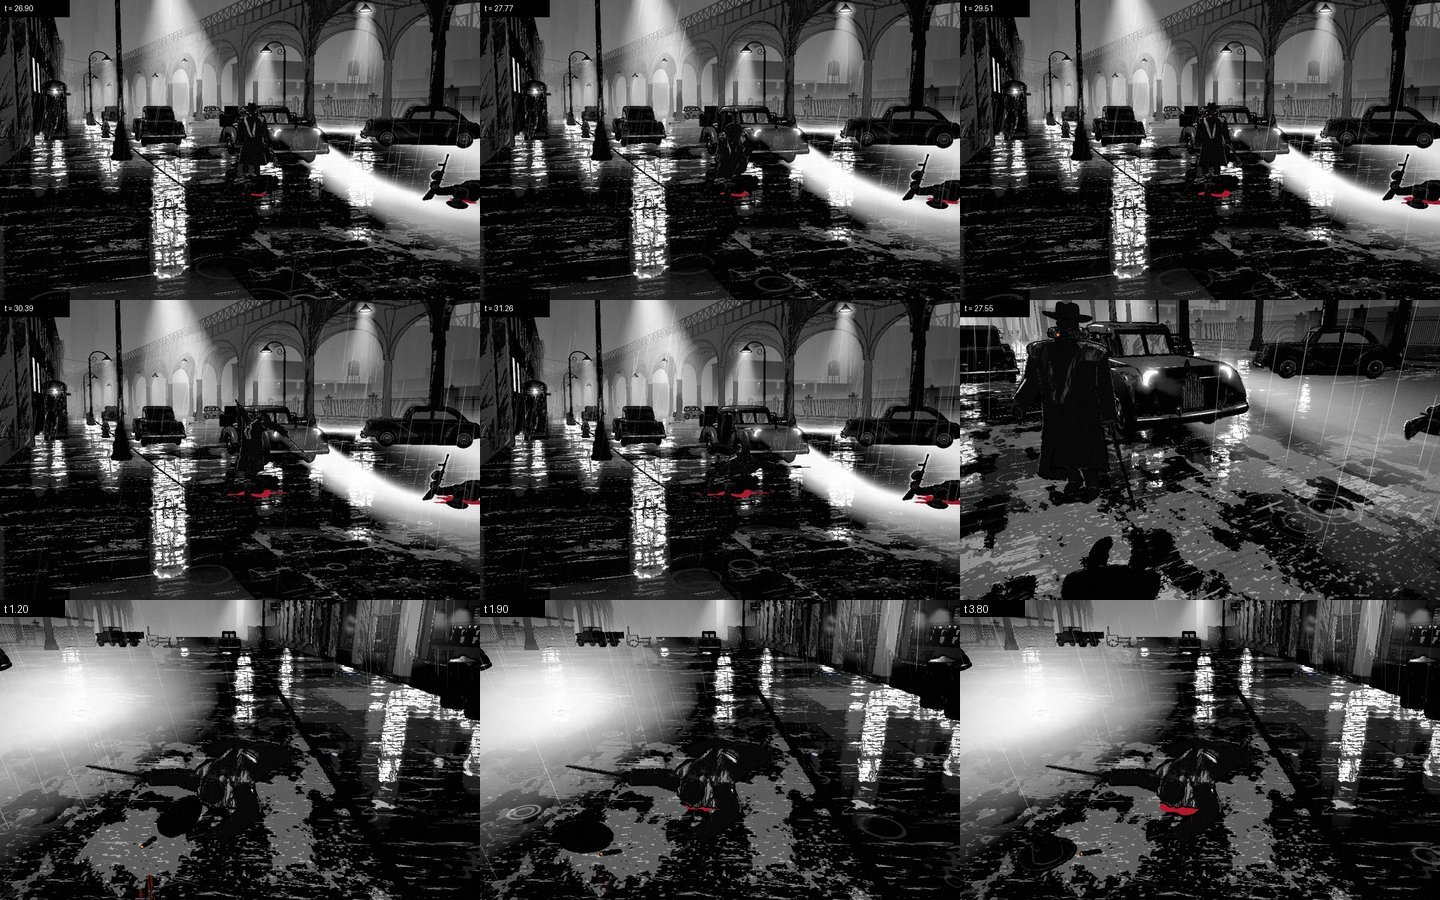
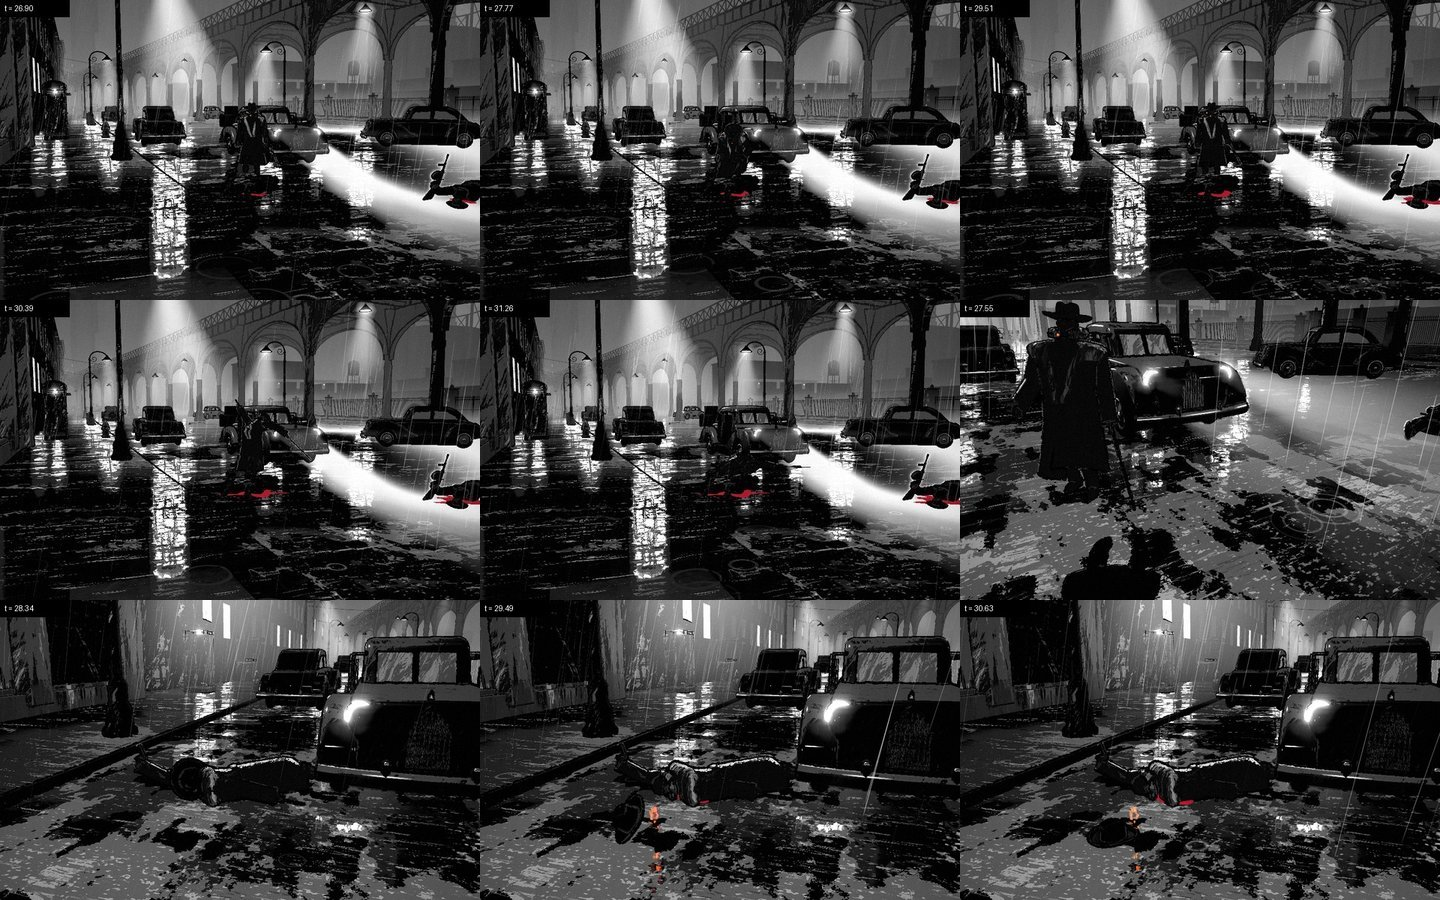
B7 second pass report: the gate on a45aa4d (build, golden 32/32, errors clean, the play twice, the slice's by-design last check, fps ratio), what changed, the fall strip's last row

Changed region(s): [[0.0, 0.6533, 1.0, 1.0]]

diff --git a/docs/story/reports/wave-b/B7.md b/docs/story/reports/wave-b/B7.md
@@ -51,7 +51,32 @@ Game seconds per beat, the runs since the doorways men were moved into the road 
 - `tools/play.mjs` (`// [B7]`): a `{ "drive": "tools/lib/<x>.mjs", "check": "expr over D" }` step: a module's default export plays with the tool's own primitives (trusted keys and mouse, js, shots) and returns a record the check reads. Twelve added lines, nothing else touched.
 - `src/destruct/Breakables.js` (`// [B7]`): a DINER neon letter's tube is a shader material (`render/accents.js`) with no `.color`: shooting it threw a TypeError. Its break now sets the shader's `uLevel` down; its neighbours' flicker scales `uLevel`; a material swapped since is left alone.
 
+## Second pass (5684ae1..a45aa4d)
+
+What changed, most felt first (all in scene 9's own files: `09_shootout.js`, `shootout/rig.js`, `rails.js`, `ending.js`, `cast/kinds/cardinal.js`, `audio/sounds/b7_shootout.js`; no new shared-file change):
+
+- Harder: the men shoot a tenth to a sixth better, and the cars beat lasts at least 15 s (open item 1, in part).
+- The take: a step in to the counter before it (no arm reaching across the room); the drums are taken by my left hand and brought up by Dot's, and her hand comes off them behind the counter (item 5). The eye is held while the hand takes the drums; the drums I carry show again after a death.
+- The cars: an open door shows its cab lit, so the men read coming out of the cars (item 4); a burnt cab has no light. A signal lamp on the el over its gunman (item 2).
+- The men: those who run go by the Hoods' grid and only when unseen, and one who has run as far as he can stands in the dark (item 6); the intruder's shoes are heard on the stoop before the bell (item 8, in part).
+- Dot ducks at a round in the room; at the end she walks out from behind the counter to the broken window as I go out to him (item 7; strip checked: she is at the window 7-9 s into the end beat).
+- The Cardinal goes down on his knees instead of back into his car when it is at his back; he falls forward, and his hat rolls on away from him (strip checked).
+- A retry never puts me back out in the road; the director runs through the fight, so the health bar shows while I am shot at.
+
+Gate plays on the final code (a45aa4d), game seconds per beat:
+
+| run | arrive | cars | doorways | el | driveby | cardinal | end | total | deaths | damage taken | their rounds / hits | kills | my rounds |
+|---|---|---|---|---|---|---|---|---|---|---|---|---|---|
+| play5 (second-pass gate 1) | 7 | 25 | 29 | 21 | 19 | 56 | 22 | 179 | 0 | 104 | 178 / 10 | 13 | 319 |
+| play6 (second-pass gate 2) | 7 | 25 | 22 | 30 | 19 | 50 | 19 | 172 | 0 | 58 | 192 / 5 | 12 | 292 |
+
+The driver takes about 25-30 s longer than on the first pass (172-179 against 136-145) and still never dies.
+
+Frames per second, re-measured on the final code (`UNCAPPED=1 node tools/fps.mjs`, 1440 x 900, alternated perf / cars / perf / cars): perf 15.3, 12.6; cars 13.2, 9.7 fps, with the GPU at 100 % before every run (eight builders), so only the ratio means anything: 0.86 and 0.77, about as before. Draw calls 833-837 in the cars beat against 770-785 for perf (823 on the first pass: the signal lamp and the lit cabs).
+
 ## Gate
+
+Second pass, on a45aa4d (the tools' commit 8425b32 after it touches only the capture scripts): `npm run build` builds; `python3 tools/golden.py check` passed, 32 of 32 frames identical; `tools/errors.sh` clean on every beat (arrive, cars, doorways, el, driveby crippled, cardinal wounded to the fall, end, the last frame); my play passed twice in a row (play5, play6, 5 of 5 each); the slice play 23 passed, 1 failed, the same by-design last check as below (open item 10); frames per second above. The first pass's gate follows.
 
 - `npm run build`: builds (the usual chunk-size warning only).
 - `python3 tools/golden.py check`: passed, 32 of 32 frames identical (run at d308768; what came after it touches only scene 9's own files and the play's json, which no golden preset loads).
@@ -61,6 +86,8 @@ Game seconds per beat, the runs since the doorways men were moved into the road 
 - Frames per second at the heaviest moment (the cars beat, t 10) against `shot=perf`: about 0.75 of it (four alternated runs, 0.60-1.10, a busy GPU); see Measured.
 
 ## Open (most felt first)
+
+As written after the first pass. The second pass (above) worked items 1 (in part), 2, 4, 5, 6, 7 and 8 (the intruder's step); 3, 9 (the fall is now forward), 10, 11 and 12 stand.
 
 1. **Too easy and short for the driver, first-timer length unmeasured.** The driver never dies more than once and takes 24-131 damage; the scene runs 115-148 game seconds for it. The cars beat can be over in 11 s when the men are shot as they step out (their first rounds go into the glass, not at me). Levers, all in `src/scenes/09_shootout.js` / `site.js`: the men's `aim` (cars 1.25, doorways 1.15, intruder 1.35, heavies 1.0, x 0.7 in the dark), the beat ends (`alive('cars') <= 2`, `alive('doorways') <= 1`, time-outs 50 / 45 / 35 s), a floor on the cars beat's length, men who stay behind their doors longer.
 2. **The el gunman is hard to see.** He stands behind the rail's lattice 10.7 m up; from the diner he is a small shape 20 m off, from under the el the deck's edge hides all but his head. His muzzle flash reads (the tell); his fall onto the car's roof reads only from the street.
@@ -93,4 +120,4 @@ Strips (3 x 3 cells of 480 x 300 from 960 x 600 captures):
 - `strip1_dot_and_the_take.jpg`: arrive, t 2.3-5.9, E at 4.55: Dot brings the gun up and lays it down, the drums; the lean, the hands on the gun, the lift out of the frame, the gun at the shoulder.
 - `strip2_cars_arrive.jpg`: cars, t 5.0-11.2, from the door: the headlamps up the avenue, the swing, the stop, the men out beside the cars (the doors themselves do not read: open item 4).
 - `strip3_el_fall_and_driveby_crash.jpg`: el (killed at 4.6): his flash, hit, over the rail, falling; then the drive-by (crippled at 4.0) from the road: at me, the swerve, into the post (it goes dark), burning.
-- `strip4_cardinal_knee_fall_hat.jpg`: rows 1-2 are cells of strips I made earlier in the lane (04:51 and 05:03, the Cardinal's code as it is now: his clips have not changed since 42ddbcb): walking with the pistol, the knee, up and on, the fall, down; him close with the cigar's ember. Row 3 on the final code (the end's jump, a tracking lens): his hat off and rolling, then settled by the cigar.
+- `strip4_cardinal_knee_fall_hat.jpg`: rows 1-2 are cells of strips I made earlier in the lane (04:51 and 05:03, the Cardinal's code as it is now: his clips have not changed since 42ddbcb): walking with the pistol, the knee, up and on, the fall, down; him close with the cigar's ember (the fall in row 2 is the first pass's). Row 3 on the second pass's final code (cardinal wounded to the fall, t 28.3-30.6, a tracking lens): fallen forward, his hat rolling on away from him, then settled by the cigar's ember.
